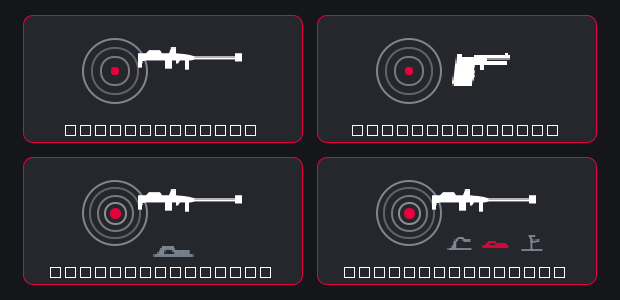
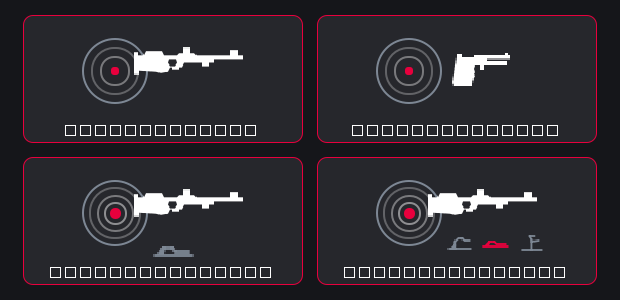
feat(ui): redesign the rifle silhouette as an ISSF match rifle
The previous outline read as a military weapon on a sport-shooting product:
straight slab comb, blocky receiver mass around the barrel, and a squared
muzzle device that scanned as a flash hider. Those are precisely the cues a
target rifle does not have.

Rebuilt from the features that actually identify a match rifle, left to right:

  · deep HOOKED BUTTPLATE dropping below the stock line
  · raised, stepped ADJUSTABLE CHEEK PIECE above the comb
  · THUMBHOLE through the grip (second subpath, an odd-even hole)
  · tall REAR APERTURE SIGHT standing well back over the action
  · slim untapered BARREL with no handguard mass around it
  · HAND STOP on the accessory rail under the forend
  · FRONT SIGHT TUNNEL at the muzzle - a raised ring housing, not a muzzle
    device

Removed with intent: rails, magazine/magwell, aggressive handguard, any
suppressor or flash-hider profile.

Flat one-colour silhouette retained so it holds up at the ~132 px tile width
and carries the same weight as the pistol plate. Palette, tile, ring motif and
position glyphs unchanged - the brief was the rifle only.

Honest limit: the finer cues (thumbhole, buttplate hook) are near the limit of
what the tile can resolve. The tactical read is gone and the aperture sight,
cheek piece and sight tunnel are legible, but this wants a human eye at real
tile size before it is called finished.

Changed region(s): [[0.6742, 0.63, 0.8581, 0.72], [0.2145, 0.63, 0.3984, 0.72], [0.2145, 0.15, 0.3984, 0.24]]

diff --git a/DisciplineArt.qml b/DisciplineArt.qml
@@ -45,11 +45,32 @@ Item {
         "L45 10 L45 12.5 L44 12.5 L29 12.5 L29 14 L43 14 L43 17 L29 17 " +
         "L27 17 L27 20 L24 20 L24 17 L21 17 L20 20 L21 21 L20 23 L21 24 " +
         "L20 26 L19 29 L19 31 L6 31 L5 29 L7 17 L8 11 Z"
+    // ISSF MATCH RIFLE, muzzle right. Authoring grid 96x28.
+    //
+    // The previous silhouette read as a military weapon: straight slab comb,
+    // blocky receiver, a squared muzzle device. Those are exactly the cues a
+    // target rifle does NOT have, and on a sport-shooting product they were
+    // the wrong signal entirely.
+    //
+    // A match rifle is recognised by a different set of features, and this
+    // outline is built from them, left to right:
+    //   · deep hooked BUTTPLATE dropping below the stock line
+    //   · raised, stepped ADJUSTABLE CHEEK PIECE above the comb
+    //   · THUMBHOLE through the grip (the second subpath - an odd-even hole)
+    //   · tall REAR APERTURE SIGHT standing well back over the action
+    //   · slim, untapered BARREL with no handguard mass around it
+    //   · HAND STOP on the accessory rail under the forend
+    //   · FRONT SIGHT TUNNEL at the muzzle - a raised ring housing, NOT a
+    //     flash hider or suppressor profile
+    //
+    // Kept as a flat one-colour silhouette so it stays legible at the ~132 px
+    // tile width and matches the pistol plate's weight.
     readonly property string riflePath:
-        "M4 8 L11 8 L14 5 L23 5 L25 8 L31 8 L33 3 L37 3 L37 8 L46 9 L54 11 " +
-        "L88 11 L88 8 L94 8 L94 15 L88 15 L88 13 L54 13 L50 14 L48 14 L48 22 " +
-        "L45 22 L45 14 L41 14 L39 17 L37 17 L37 14 L34 14 L34 21 L28 21 L28 14 " +
-        "L11 14 L8 15 L9 16 L8 17 L8 20 L4 20 Z"
+        "M1 7 L4 7 L4 10 L9 10 L11 6 L25 6 L27 10 L38 10 L40 8 L43 8 L43 3 " +
+        "L49 3 L49 8 L53 8 L55 10 L84 10 L84 5 L91 5 L91 10 L95 10 L95 13 " +
+        "L70 13 L70 16 L66 16 L66 19 L60 19 L60 16 L44 16 L42 20 L40 20 " +
+        "L40 22 L34 22 L34 20 L32 20 L30 24 L24 25 L20 24 L5 23 L5 26 L1 26 Z " +
+        "M31 13 L37 13 L38 16 L36 19 L32 19 L30 16 Z"
 
     // Position glyphs — the real differentiator between the two 50 m events.
     // 24x16 grid: a simplified athlete seen from the side, muzzle right.
